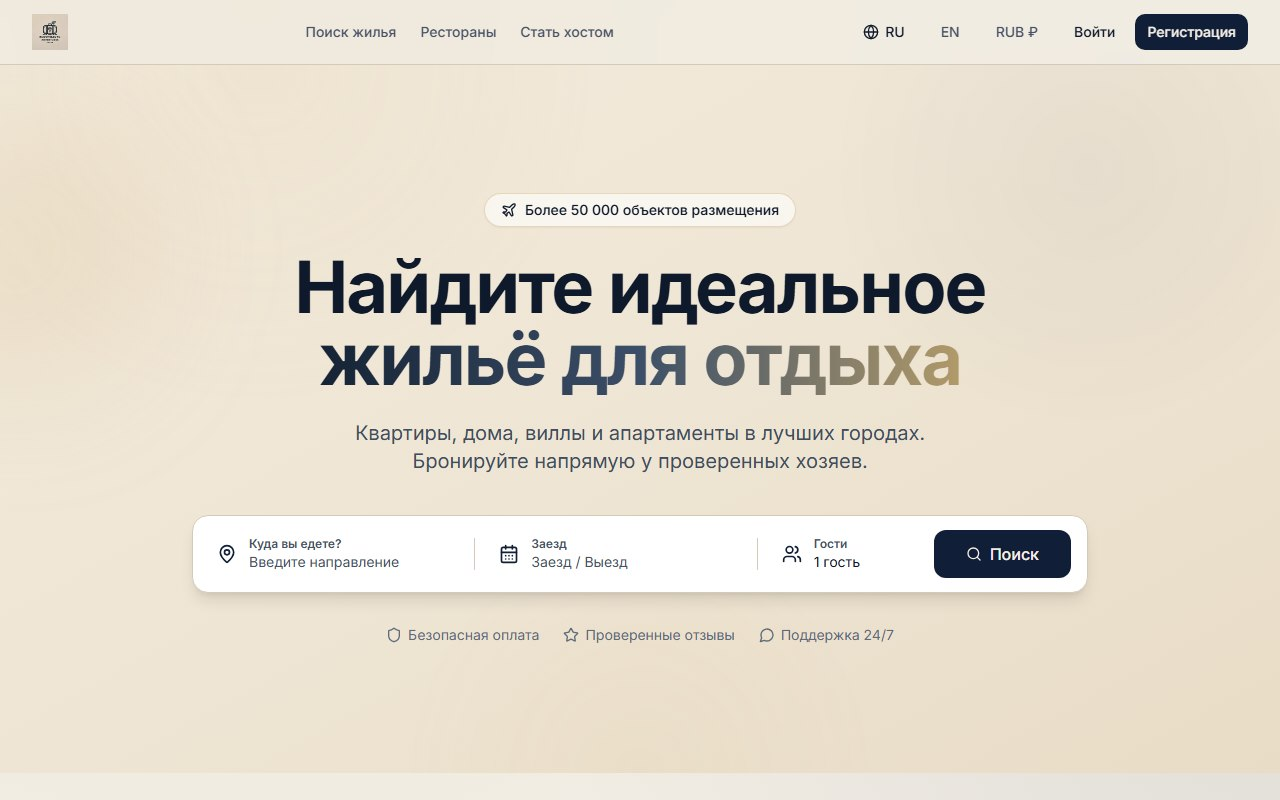
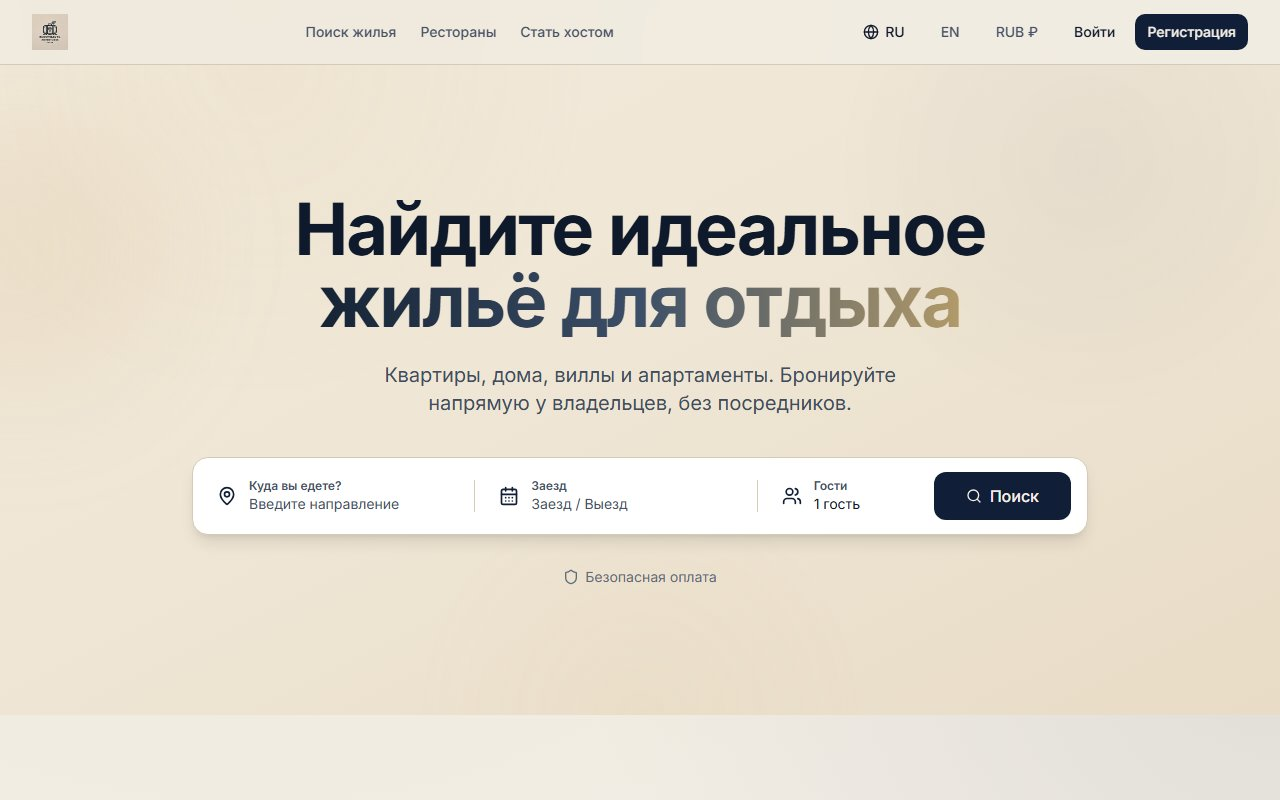
Светлая тема портфолио и актуальное превью buzztravel
Тёмный фон заменён на светло-серый, карточки белые. Переведены обе
страницы — главная и кейс про веб-архив. Контраст основного текста
17,2, серого 5,6, ссылок 4,9 — все проходят WCAG AA.

Превью buzztravel переснято с текущего сайта: на старом снимке была
надпись «Более 50 000 объектов размещения», которую с сайта убрали
как не соответствующую действительности.

diff --git a/index.html b/index.html
@@ -25,13 +25,14 @@
 <link href="https://fonts.googleapis.com/css2?family=Manrope:wght@400;500;600;700;800&display=swap" rel="stylesheet">
 <style>
   :root{
-    --ink:#101720;
-    --ink-2:#18202B;
-    --line:#28323F;
-    --text:#EAEFF5;
-    --muted:#8FA0B3;
-    --accent:#3E9BFF;
-    --accent-2:#6FB8FF;
+    --ink:#F4F7FA;
+    --ink-2:#FFFFFF;
+    --line:#DEE6EF;
+    --text:#131C26;
+    --muted:#57697D;
+    --accent:#1F6FD4;
+    --accent-2:#3E9BFF;
+    --shadow:0 2px 6px rgba(20,45,80,.05);
     --r:20px;
     --t:.3s cubic-bezier(.4,0,.2,1);
   }
@@ -53,26 +54,26 @@
   .intro::before{
     content:"";position:absolute;inset:0;
     background:
-      radial-gradient(760px 420px at 80% 0%,rgba(62,155,255,.18),transparent 60%),
-      radial-gradient(560px 380px at 5% 100%,rgba(62,155,255,.08),transparent 60%);
+      radial-gradient(760px 420px at 80% 0%,rgba(62,155,255,.16),transparent 60%),
+      radial-gradient(560px 380px at 5% 100%,rgba(62,155,255,.09),transparent 60%);
   }
   .intro__inner{position:relative;display:flex;gap:26px;align-items:flex-start;flex-wrap:wrap}
   .avatar{
     width:104px;height:104px;flex:none;border-radius:50%;
     background:linear-gradient(135deg,var(--accent-2),var(--accent));
-    display:grid;place-items:center;font-size:2.4rem;font-weight:800;color:#08131F;
-    box-shadow:0 14px 34px rgba(62,155,255,.3);
+    display:grid;place-items:center;font-size:2.4rem;font-weight:800;color:#fff;
+    box-shadow:0 14px 34px rgba(31,111,212,.28);
   }
   /* буквы «Шушкова» дают много одинаковых вертикалей — небольшой разрядки хватает,
      чтобы имя читалось однозначно даже на мелком экране */
   h1{margin:0 0 6px;font-size:clamp(1.9rem,4vw,2.9rem);font-weight:800;letter-spacing:.005em;line-height:1.15}
-  .intro__role{color:var(--accent-2);font-weight:700;margin:0 0 10px}
+  .intro__role{color:var(--accent);font-weight:700;margin:0 0 10px}
   .intro__text{color:var(--muted);max-width:56ch;margin:0}
 
   .skills{display:flex;flex-wrap:wrap;gap:9px;margin-top:26px}
   .skill{
     padding:8px 17px;border-radius:100px;font-size:.87rem;font-weight:700;
-    background:rgba(62,155,255,.12);color:var(--accent-2);
+    background:rgba(31,111,212,.10);color:var(--accent);
   }
 
   /* Работы */
@@ -81,22 +82,22 @@
   .works{display:grid;grid-template-columns:repeat(2,1fr);gap:26px}
   .work{
     display:flex;flex-direction:column;border-radius:var(--r);overflow:hidden;
-    background:var(--ink-2);border:1px solid var(--line);
+    background:var(--ink-2);border:1px solid var(--line);box-shadow:var(--shadow);
     transition:transform var(--t),border-color var(--t),box-shadow var(--t);
   }
-  .work:hover{transform:translateY(-6px);border-color:var(--accent);box-shadow:0 22px 50px rgba(0,0,0,.4)}
-  .work__shot{aspect-ratio:16/10;overflow:hidden;background:#0B1017;border-bottom:1px solid var(--line)}
+  .work:hover{transform:translateY(-6px);border-color:var(--accent);box-shadow:0 22px 48px rgba(20,45,80,.15)}
+  .work__shot{aspect-ratio:16/10;overflow:hidden;background:#EEF2F7;border-bottom:1px solid var(--line)}
   .work__shot img{width:100%;height:100%;object-fit:cover;object-position:top center;transition:transform .5s ease}
   .work:hover .work__shot img{transform:scale(1.04)}
   .work__body{padding:24px;display:flex;flex-direction:column;flex:1}
   .work__body h3{margin:0 0 8px;font-size:1.2rem;font-weight:800}
   .work__body p{margin:0 0 18px;color:var(--muted);font-size:.95rem;flex:1}
   .work__tags{display:flex;flex-wrap:wrap;gap:7px;margin-bottom:20px}
-  .work__tags span{font-size:.78rem;padding:5px 12px;border-radius:100px;background:rgba(255,255,255,.06);color:var(--muted)}
+  .work__tags span{font-size:.78rem;padding:5px 12px;border-radius:100px;background:#F1F5F9;border:1px solid var(--line);color:var(--muted)}
   .work__link{
     display:inline-flex;align-items:center;justify-content:center;gap:8px;
     padding:13px 22px;border-radius:100px;font-weight:800;font-size:.95rem;
-    background:linear-gradient(135deg,var(--accent-2),var(--accent));color:#08131F;
+    background:linear-gradient(135deg,var(--accent-2),var(--accent));color:#fff;
     transition:transform var(--t);
   }
   .work__link:hover{transform:translateY(-2px)}
@@ -113,7 +114,7 @@
     /* у figure браузерные отступы по 40px с боков — без обнуления
        карточка теряет половину ширины */
     margin:0;
-    border-radius:16px;overflow:hidden;background:var(--ink-2);
+    border-radius:16px;overflow:hidden;background:var(--ink-2);box-shadow:var(--shadow);
     border:1px solid var(--line);transition:transform var(--t),border-color var(--t);
   }
   .card:hover{transform:translateY(-5px);border-color:var(--accent)}
@@ -131,9 +132,10 @@
   .contact__links{display:flex;gap:11px;flex-wrap:wrap}
   .contact__links a{
     padding:12px 24px;border-radius:100px;font-weight:700;font-size:.94rem;
+    background:var(--ink-2);
     border:1.5px solid var(--line);transition:border-color var(--t),background var(--t);
   }
-  .contact__links a:hover{border-color:var(--accent);background:rgba(62,155,255,.1)}
+  .contact__links a:hover{border-color:var(--accent);background:rgba(31,111,212,.08)}
 
   footer{padding:0 0 40px;color:var(--muted);font-size:.85rem}
 

diff --git a/arhiv.html b/arhiv.html
@@ -1,4 +1,4 @@
-<!DOCTYPE html>
+<!DOCTYPE html>
 <html lang="ru">
 <head>
 <meta charset="UTF-8">
@@ -10,13 +10,14 @@
 <link href="https://fonts.googleapis.com/css2?family=Manrope:wght@400;500;600;700;800&display=swap" rel="stylesheet">
 <style>
   :root{
-    --ink:#101720;
-    --ink-2:#18202B;
-    --line:#28323F;
-    --text:#EAEFF5;
-    --muted:#8FA0B3;
-    --accent:#3E9BFF;
-    --accent-2:#6FB8FF;
+    --ink:#F4F7FA;
+    --ink-2:#FFFFFF;
+    --line:#DEE6EF;
+    --text:#131C26;
+    --muted:#57697D;
+    --accent:#1F6FD4;
+    --accent-2:#3E9BFF;
+    --shadow:0 2px 6px rgba(20,45,80,.05);
     --r:20px;
     --t:.3s cubic-bezier(.4,0,.2,1);
   }
@@ -36,18 +37,18 @@
     display:inline-flex;align-items:center;gap:8px;
     color:var(--muted);font-weight:700;font-size:.94rem;transition:color var(--t);
   }
-  .back:hover{color:var(--accent-2)}
+  .back:hover{color:var(--accent)}
 
   /* Интро кейса */
   .intro{position:relative;padding:60px 0 44px;overflow:hidden}
   .intro::before{
     content:"";position:absolute;inset:0;
-    background:radial-gradient(700px 380px at 75% 0%,rgba(62,155,255,.16),transparent 62%);
+    background:radial-gradient(700px 380px at 75% 0%,rgba(62,155,255,.15),transparent 62%);
   }
   .intro__in{position:relative}
   .kicker{
     display:inline-block;padding:7px 16px;border-radius:100px;margin-bottom:18px;
-    background:rgba(62,155,255,.13);color:var(--accent-2);
+    background:rgba(31,111,212,.10);color:var(--accent);
     font-size:.8rem;font-weight:700;letter-spacing:.05em;text-transform:uppercase;
   }
   h1{margin:0 0 14px;font-size:clamp(1.8rem,4vw,2.7rem);font-weight:800;letter-spacing:-.02em;line-height:1.15}
@@ -56,7 +57,7 @@
   .meta{display:flex;flex-wrap:wrap;gap:10px;margin-top:26px}
   .meta span{
     padding:8px 17px;border-radius:100px;font-size:.86rem;font-weight:700;
-    background:rgba(255,255,255,.06);color:var(--muted);
+    background:#F1F5F9;border:1px solid var(--line);color:var(--muted);
   }
 
   /* Блоки текста */
@@ -67,7 +68,7 @@
     background:var(--ink-2);border:1px solid var(--line);
     border-radius:var(--r);padding:26px;
   }
-  .box h3{margin:0 0 12px;font-size:1.06rem;font-weight:800;color:var(--accent-2)}
+  .box h3{margin:0 0 12px;font-size:1.06rem;font-weight:800;color:var(--accent)}
   .box ul{margin:0;padding-left:20px;color:var(--muted);font-size:.96rem}
   .box li{margin-bottom:8px}
   .box li:last-child{margin-bottom:0}
@@ -80,27 +81,27 @@
   .shot__head span{color:var(--muted);font-size:.92rem}
   .frame{
     border-radius:var(--r);overflow:hidden;
-    border:1px solid var(--line);background:#0B1017;
+    border:1px solid var(--line);background:#EEF2F7;
   }
   .frame__bar{
     display:flex;align-items:center;gap:7px;padding:12px 16px;
-    background:#1C222B;border-bottom:1px solid var(--line);
+    background:#EEF2F7;border-bottom:1px solid var(--line);
   }
-  .frame__bar i{width:10px;height:10px;border-radius:50%;background:#3E4856;flex:none}
+  .frame__bar i{width:10px;height:10px;border-radius:50%;background:#C7D3E0;flex:none}
   .frame__bar em{
     margin-left:10px;font-style:normal;font-size:.82rem;color:var(--muted);
     overflow:hidden;text-overflow:ellipsis;white-space:nowrap;
   }
   .scroller{max-height:560px;overflow-y:auto;overscroll-behavior:contain}
   .scroller::-webkit-scrollbar{width:10px}
-  .scroller::-webkit-scrollbar-track{background:#0B1017}
-  .scroller::-webkit-scrollbar-thumb{background:#2E3947;border-radius:6px}
+  .scroller::-webkit-scrollbar-track{background:#EEF2F7}
+  .scroller::-webkit-scrollbar-thumb{background:#B9C7D8;border-radius:6px}
   .hint{margin:10px 0 0;font-size:.86rem;color:var(--muted)}
 
   /* Заметка */
   .note{
     margin-top:44px;padding:24px 26px;border-radius:var(--r);
-    background:rgba(62,155,255,.07);border:1px solid rgba(62,155,255,.28);
+    background:rgba(31,111,212,.06);border:1px solid rgba(31,111,212,.22);
   }
   .note h3{margin:0 0 10px;font-size:1.04rem;font-weight:800}
   .note p{margin:0;color:var(--muted);font-size:.96rem}
@@ -116,7 +117,7 @@
     padding:12px 24px;border-radius:100px;font-weight:700;font-size:.93rem;
     border:1.5px solid var(--line);transition:border-color var(--t),background var(--t);
   }
-  .foot__links a:hover{border-color:var(--accent);background:rgba(62,155,255,.1)}
+  .foot__links a:hover{border-color:var(--accent);background:rgba(31,111,212,.08)}
 
   @media (max-width:760px){
     .cols{grid-template-columns:1fr}
@@ -223,3 +224,4 @@
 
 </body>
 </html>
+
